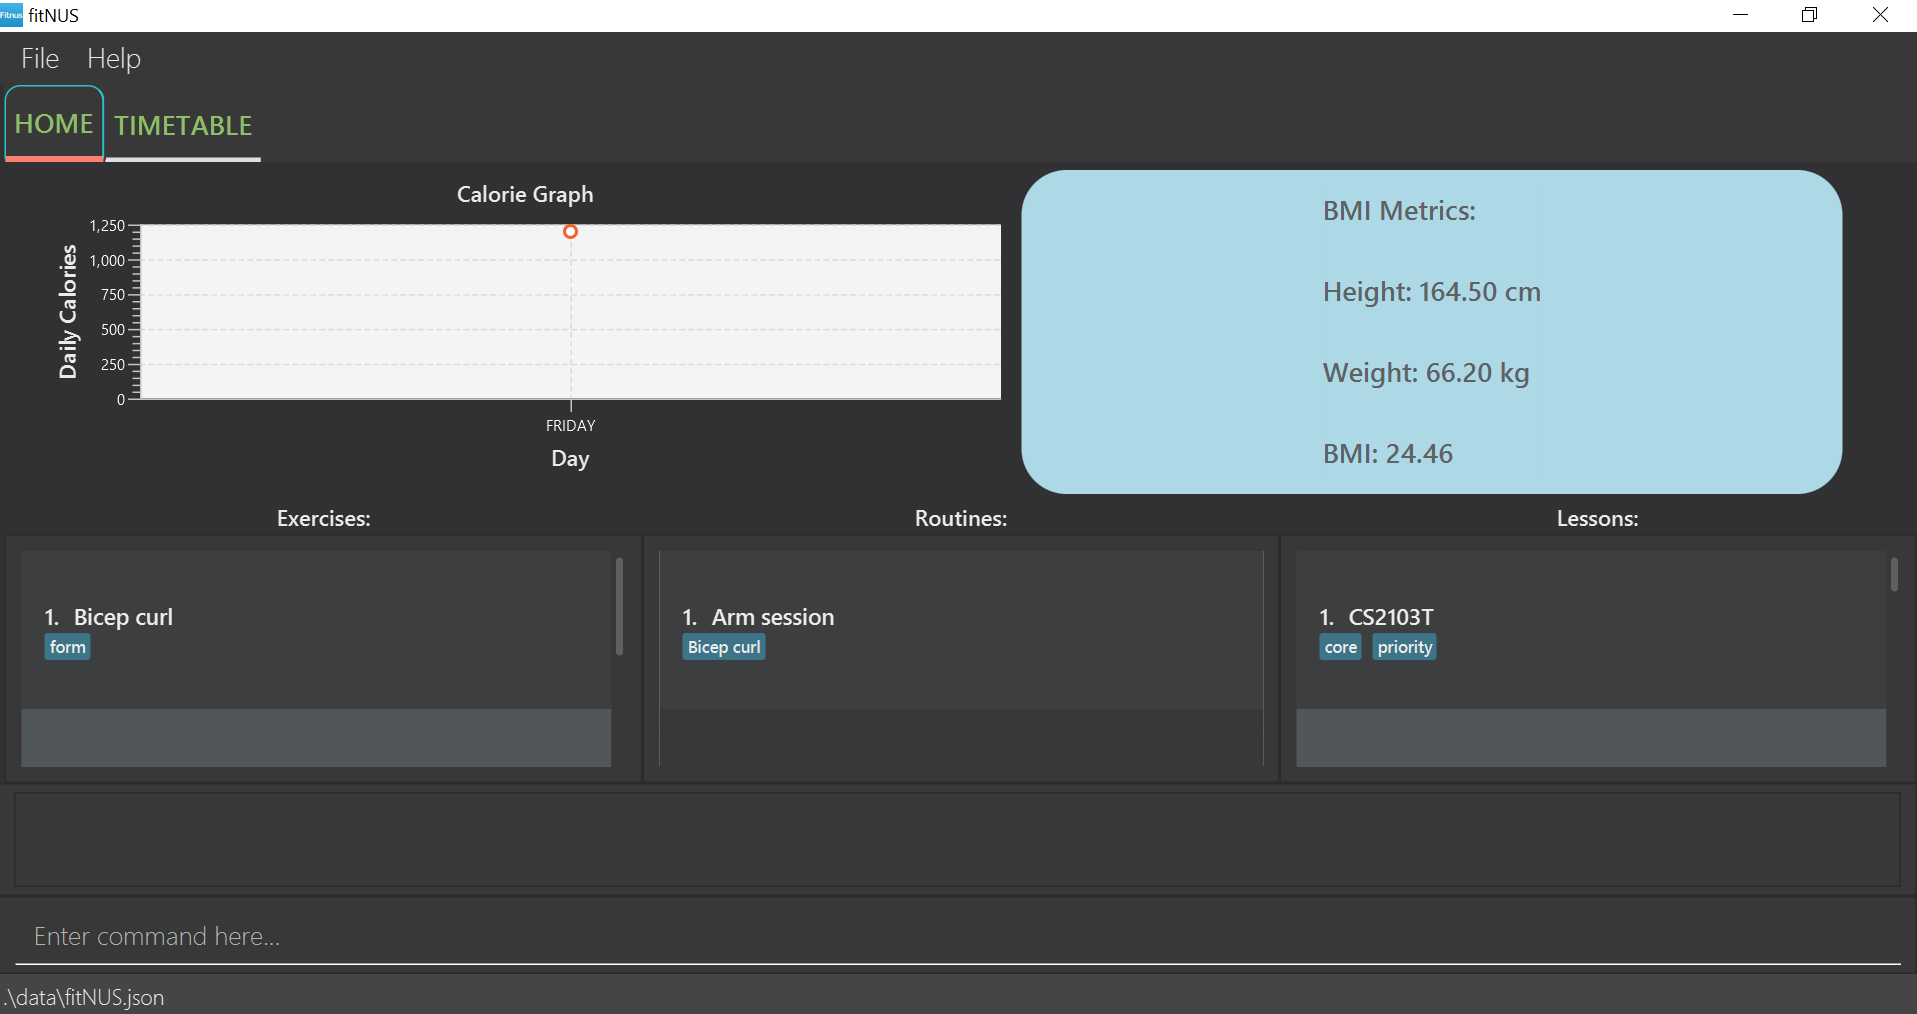
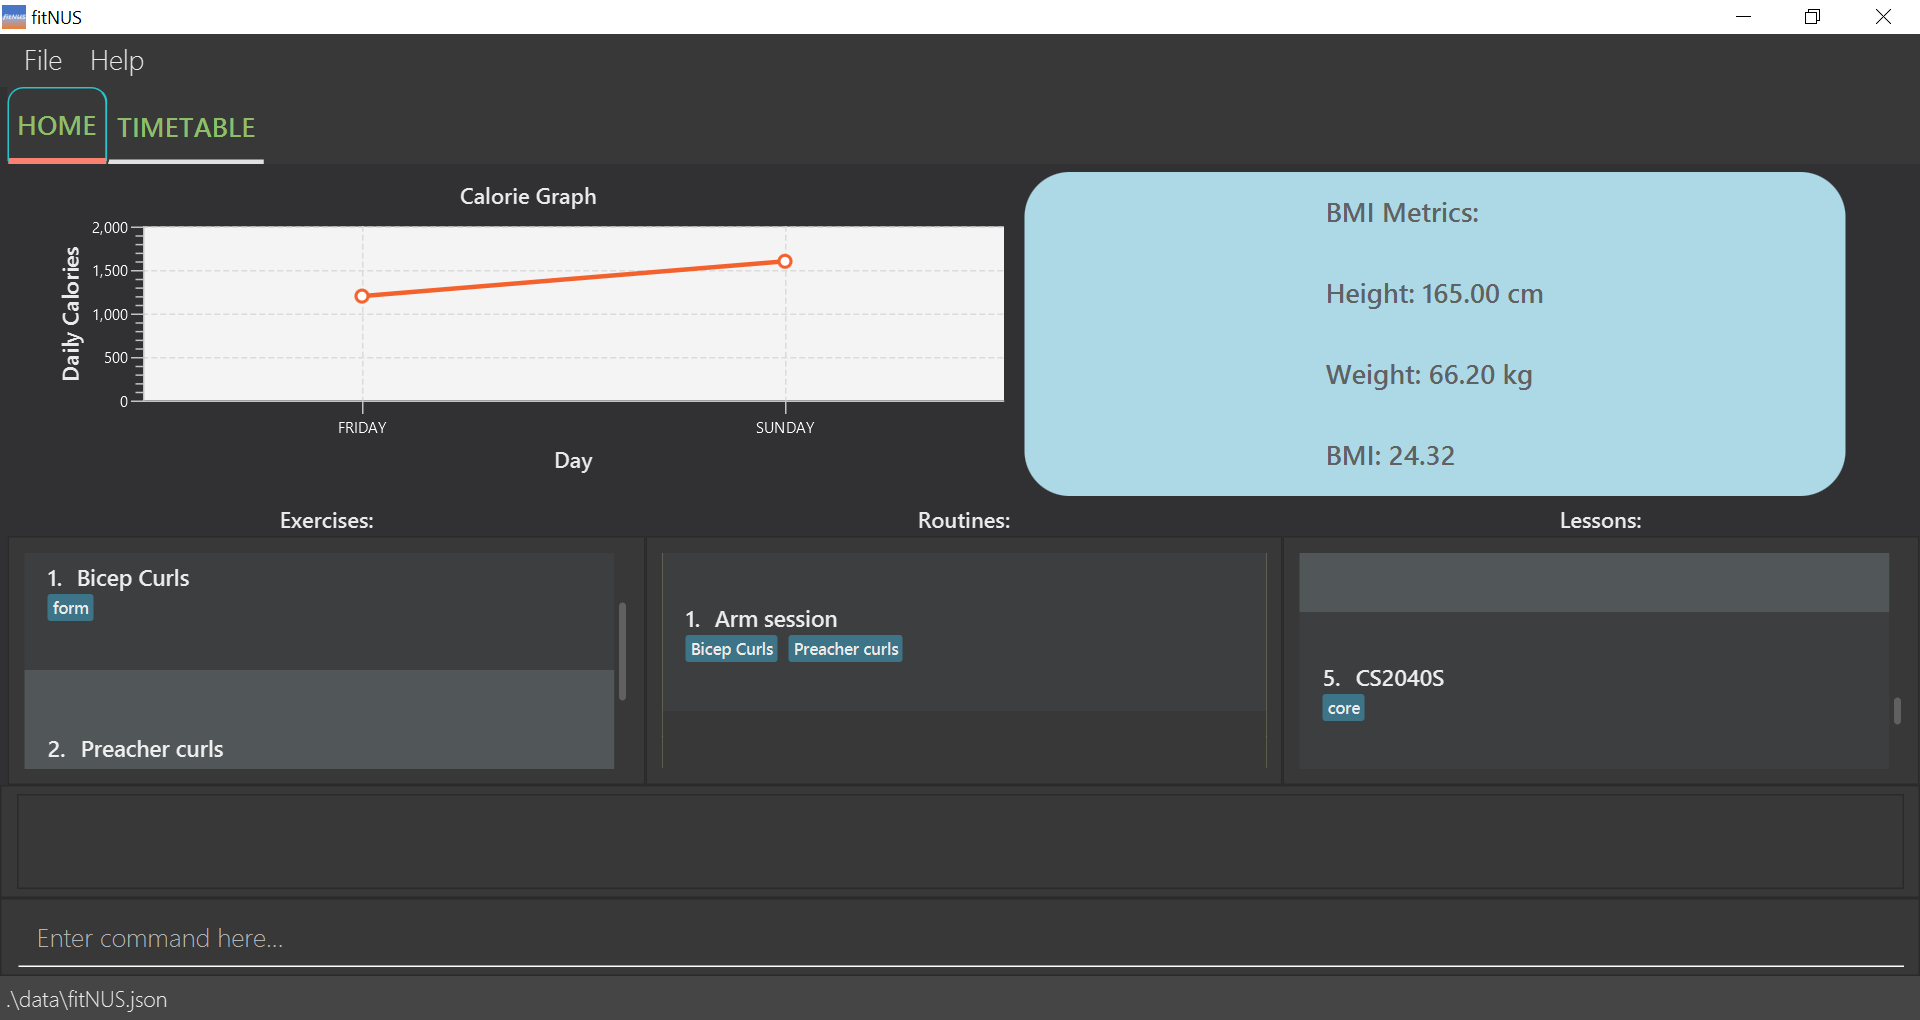
First commit

diff --git a/docs/UserGuide.md b/docs/UserGuide.md
@@ -33,7 +33,6 @@ Formatting | Meaning | Examples
 e/EXAMPLE | The character before the forward slash ("/") is a prefix, and words in **UPPER_CASE** after the slash are the parameters to be supplied by you | In `exercise_add e/EXERCISE`, `EXERCISE` is a parameter which can be used as `exercise_add e/Deadlift`
 [ x/X ] | Square brackets signify optional fields that you can consider using | `exercise_add e/EXERCISE [t/TAG]` can be used as `exercise_add e/Deadlift t/glutes` or `exercise_add e/Deadlift`
 `...` | Fields which are followed by `...` indicate that they can be used more than once | `[t/TAG]...` can be used as `t/first t/important t/form` etc.
-Duplicate parameters | Only the argument of the last occurring duplicate parameter will be considered if the command format does not expect multiple parameters (i.e. fields without `...`) | In `exercise_add e/Deadlift e/Lunges`, an exercise with the name `Lunges` will be added and `e/Deadlift` is ignored
 Order of parameters | Valid parameters can be provided in any order unless one of the parameters is `INDEX`, in which case `INDEX` must be the first parameter | In `exercise_edit INDEX [e/EXERCISE] [t/TAG]...`, `exercise_edit INDEX [t/TAG]... [e/EXERCISE]` is also accepted. However, `exercise_edit [e/EXERCISE] INDEX [t/TAG]...` is not allowed
 `mark-up` | Grey highlight of a word signifies the actual input that you can use | You can type `exercise_delete 1` in the command box and press *Enter* to execute the command
 Call Outs | Red boxes will be drawn up around areas of interest to alert you `[coming in v1.4]` | -
@@ -447,12 +446,14 @@ Note that you are viewing 2 lessons as of now.
 
 ### 4.4 Timetable
 
-You can add both Routines and Lessons to your timetable to get an overview of your week. You can switch between the
-Timetable and Homepage display by clicking on either of the tabs found at the top left of the interface.
-In this subsection, we will explore the timetable feature and its respective commands.
+You can add both Routines and Lessons to your timetable to get an overview of your week. You can navigate between the
+Timetable and Homepage display by clicking on the corresponding tabs found at the top left of the interface.
+The following illustration shows a pre-filled view of the Timetable:
+
+![Timetable View](./images/timetable_view.png)
 
 Any changes made to existing routines or lessons that have already been added as a slot in the Timetable will be
-reflected automatically on the Timetable.
+reflected automatically on the Timetable. In this subsection, we will explore the timetable feature and its related commands.
 
 #### 4.4.1 Add routine to timetable : `timetable_add_routine`
 
@@ -514,23 +515,10 @@ Note that Leg Workout routine slot is no longer reflected on the Timetable.
 
 ![Timetable Delete Slot After](./images/timetable_delete_slot_after.png)
 
-#### 4.4.4 View timetable :
-
-Views the timetable in fitNUS.
-
-Format: -
-
-Example:
-* Click on the timetable tab at the top left of the interface to view timetable.
-
-**View of Timetable**
-
-![Timetable View](./images/timetable_view.png)
-
 ### 4.5 BMI
 
 fitNUS allows you to record your height and weight in order to better keep track of the progression of your health
-journey. You can check your current BMI once you have keyed in the 2 parameters in the command box.
+journey. You BMI will be displayed on the Home tab once you have keyed in the 2 parameters in the command box.
 
 #### 4.5.1 Add or edit height : `height`
 
@@ -538,10 +526,18 @@ Adds the specified height, in centimetres, to fitNUS.
 
 Format: `height h/HEIGHT`
 
-Examples:
-* `height h/170.5` Adds or edits the height of the user, which is 170.5 cm.
+Example:
+* `height h/170` Adds or edits the height of the user, which is 170 cm.
 
-![Add Height](./images/height.png)
+**Before inputting "170" cm:**
+
+![Add Height Before](./images/height_before.png)
+Notice how the default height is set to 160 cm before the change. 
+
+**After inputting "170" cm:**
+
+![Add Height After](./images/height_after.png)
+Notice the updated height of 170 cm after the change.
 
 #### 4.5.2 Add or edit weight : `weight`
 
@@ -549,27 +545,24 @@ Adds the specified weight, in kilograms, to fitNUS.
 
 Format: `weight w/WEIGHT`
 
-Examples:
+Example:
 * `weight w/72.8` Adds or edits the weight of the user, which is 72.8 kg.
 
-![Add Weight](./images/weight.png)
+**Before inputting "72.8" kg:**
 
-#### 4.5.3 View BMI : `bmi`
+![Add Weight Before](./images/weight_before.png)
+Notice how the default weight is set to 45 kg before the change.
 
-Calculates and displays the user's BMI based on the height and weight input.
+**After inputting "72.8" kg:**
 
-Format: `bmi`
-
-Examples:
-* `bmi` Views BMI.
-
-![View bmi](./images/bmi.png)
+![Add Weight After](./images/weight_after.png)
+Notice the updated weight of 72.8 kg after the change.
 
 ### 4.6 Calorie
 
 You can keep track of your daily caloric intake and expenditure by inputting the values in the command box.
 You can add or deduct a specified amount from your current calorie count. All successful modifications will be
-automatically reflected in the Calorie Graph.
+automatically reflected in the Calorie Graph on the Home tab.
 
 #### 4.6.1 Add calories : `calorie_add`
 
@@ -577,10 +570,17 @@ Adds the specified calorie amount to fitNUS.
 
 Format: `calorie_add c/CALORIE`
 
-Examples:
-* `calorie_add c/600` Adds 600 calories to today's sum.
+Example:
+* `calorie_add c/1500` Adds 1500 calories to today's sum.
 
-![Calorie Add](./images/calorie_add.png)
+**Before adding "1500" calories:**
+
+![Calorie Add Before](./images/calorie_add_before.png)
+Notice that the Calorie Graph has no data points.
+
+**After adding "1500" calories:**
+
+![Calorie Add After](./images/calorie_add_after.png)
 
 #### 4.6.2 Deduct calories : `calorie_minus`
 
@@ -588,10 +588,16 @@ Deducts the specified calorie amount from today's sum.
 
 Format: `calorie_minus c/CALORIE`
 
-Examples:
-* `calorie_minus c/250` Deducts 250 calories from today's sum.
+Example:
+* `calorie_minus c/600` Deducts 600 calories from today's sum.
 
-![Calorie Minus](./images/calorie_minus.png)
+**Before deducting "600" calories:**
+
+![Calorie Minus Before](./images/calorie_minus_before.png)
+
+**After deducting "600" calories:**
+
+![Calorie Minus After](./images/calorie_minus_after.png)
 
 ### 4.7 Miscellaneous
 
@@ -599,12 +605,35 @@ These are some essential commands that you can use fitNUS that are not linked to
 
 #### 4.7.1 Help: `help`
 
-Links you to the User Guide where there is comprehensive summary of all commands in fitNUS. The link will appear in a
-pop-up. Additionally, use a keyword to search for a group of commands.
+Shows a brief description of all possible commands. Links you to the User Guide where there is a comprehensive guide of
+the program usage instructions in fitNUS. The link will appear in a pop-up.
 
 Format: `help` or `help [COMMAND_KEYWORD]`
 
-![Help](./images/help.png)
+Example:
+* `help` Shows a scrollable full command list.
+
+**Before inputting "help":**
+
+![Help](./images/help_before.png)
+
+**After inputting "help":**
+
+![Help](./images/help_after.png)
+
+Alternatively, use a keyword to search for a group of commands.
+The following depicts what would happen if you chose to streamline your search to a certain keyword.
+
+Example:
+* `help timetable` Shows all the commands containing the word "timetable".
+
+**Before inputting "help timetable":**
+
+![Help](./images/help_keyword_before.png)
+
+**After inputting "help timetable":**
+
+![Help](./images/help_keyword_after.png)
 
 #### 4.7.2 Clear: `clear`
 
@@ -685,7 +714,6 @@ Action | Format | Examples
 **Add Routine to Timetable** | `timetable_add_routine r/ROUTINE D/DAY T/TIME` | `timetable_add_routine r/Leg Day Session D/Monday T/1600-1800`
 **Add Lesson to Timetable** | `timetable_add_lesson n/LESSON D/DAY T/TIME` | `timetable_add_lesson n/CS2103T D/Tuesday T/1200-1400`
 **Delete Routine or Lesson from Timetable** | `timetable_delete_slot D/DAY T/TIME` | `timetable_delete_slot D/Monday T/1600-1800`
-**View timetable** | - | Click on timetable tab at the top left of interface
 
 ### 5.5 BMI
 
@@ -693,7 +721,6 @@ Action | Format | Examples
 --------|-------|-----------
 **Add or edit Height** | `height h/HEIGHT` | `height h/170.5`
 **Add or edit Weight** | `weight w/WEIGHT` | `weight w/72.8`
-**View BMI** | `bmi` | `bmi`
 
 ### 5.6 Calorie
 
